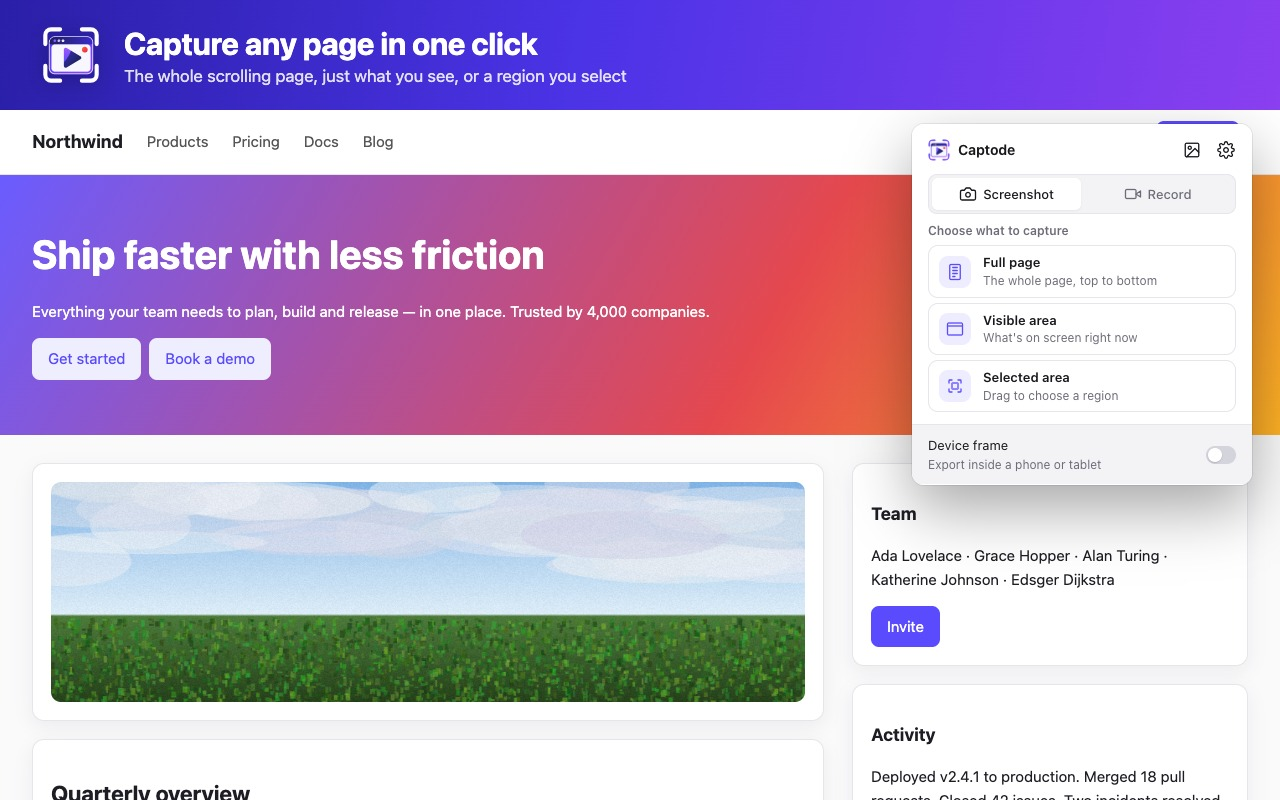
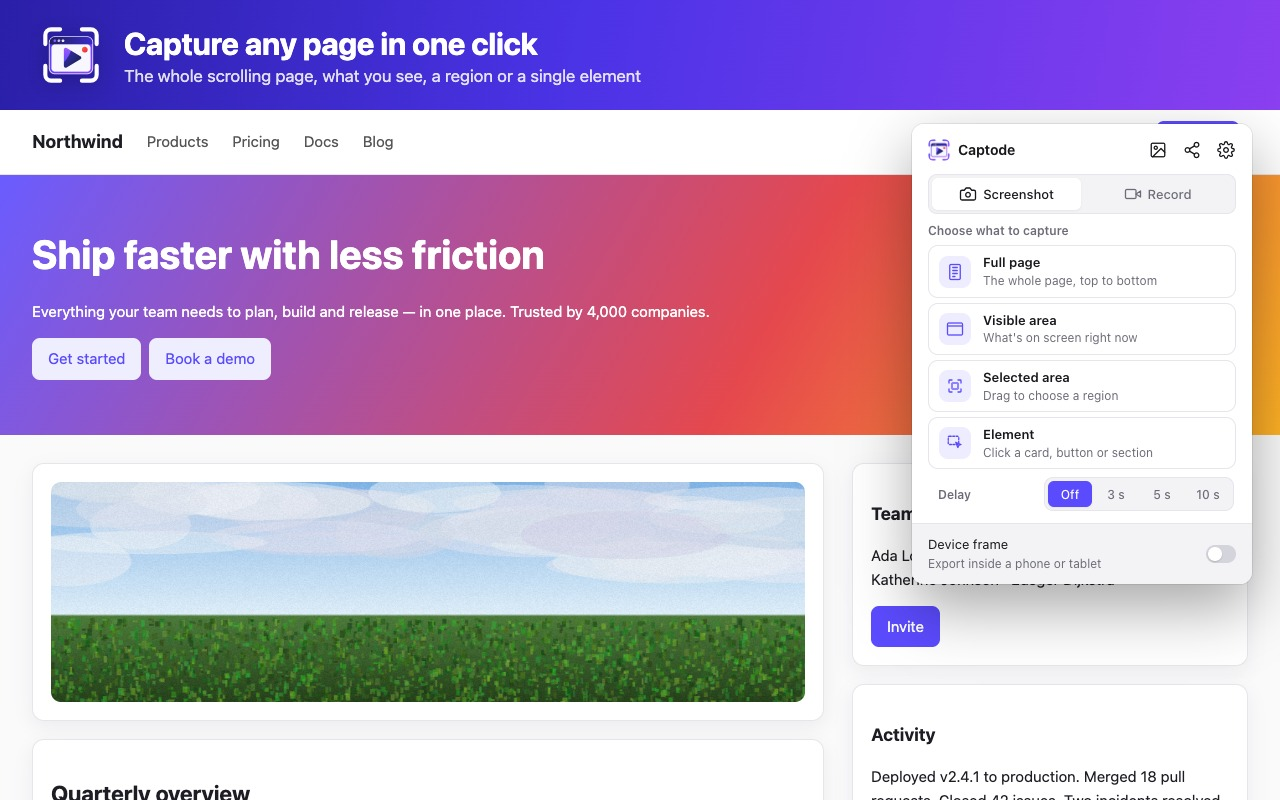
Tests for blurring private details, the camera bubble and microphone, shortcuts and diagnostics; docs, listing and store screenshots for 1.4

Changed region(s): [[0.6875, 0.5312, 1.0, 0.7812], [0.25, 0.0625, 0.5, 0.125], [0.9062, 0.1562, 0.9375, 0.2188]]

diff --git a/test/site/private.html b/test/site/private.html
@@ -1,0 +1,20 @@
+<!doctype html><html><head><meta charset="utf-8"><title>Account</title>
+<style>
+body{margin:0;padding:32px 40px;font:16px/1.6 system-ui,sans-serif;color:#222;background:#fff}
+p{margin:0 0 14px}
+input{font:inherit;padding:6px 8px;width:280px}
+#spacer{height:2200px}
+</style></head><body>
+<h1>Your account</h1>
+<!-- What should be found. -->
+<p>Signed in as <span id="email">jane.doe@example.com</span>.</p>
+<p>Phone: <span id="phone">+1 (415) 555-0134</span></p>
+<p>Card on file: <span id="card">4242 4242 4242 4242</span></p>
+<p><label>Backup email <input id="field" type="email" value="backup@example.org"></label></p>
+<!-- What shouldn't: dates, times, money, years, versions, order and book numbers. -->
+<p id="decoys">Joined 2024-05-12 at 10:30. Balance $1,299.00 (was €12,345.67). Member 2019–2024.
+Version 1.2.3.4. Order #100234, tracking 4242 4242 4242 4241. ISBN 978-3-16-148410-0.
+Released 12/05/2024. Reference 1234567890123.</p>
+<div id="spacer"></div>
+<p>Questions? Write to <span id="low">help@example.net</span>.</p>
+</body></html>

diff --git a/src/content/page.js b/src/content/page.js
@@ -246,8 +246,10 @@ export function findPrivate(region, space) {
   };
 
   const EMAIL = /[A-Za-z0-9._%+-]+@[A-Za-z0-9-]+(?:\.[A-Za-z0-9-]+)*\.[A-Za-z]{2,}/g;
-  const CARD = /(?<![\d.,])\d(?:[ -]?\d){12,18}(?![\d.,])/g;
-  const PHONE = /(?<![\w.,/-])(?:\+\d{1,3}[\s.-]?)?(?:\(\d{1,4}\)[\s.-]?)?\d{2,5}(?:[\s.-]\d{2,5}){1,4}(?![\w.,/-])/g;
+  // Whole numbers only: not the start or end of a longer one ("4242 4242 4242" in a
+  // 16-digit tracking number isn't a phone number).
+  const CARD = /(?<![\d.,]|\d[ -])\d(?:[ -]?\d){12,18}(?![\d.,]|[ -]\d)/g;
+  const PHONE = /(?<![\w.,/-]|\d[\s.-])(?:\+\d{1,3}[\s.-]?)?(?:\(\d{1,4}\)[\s.-]?)?\d{2,5}(?:[\s.-]\d{2,5}){1,4}(?![\w.,/-]|[\s.-]\d)/g;
   const digits = (m) => m.replace(/\D/g, '');
   const luhn = (d) => {
     let sum = 0;

diff --git a/store/listing.md b/store/listing.md
@@ -3,13 +3,14 @@
 Everything to fill in the Chrome Web Store Developer Dashboard, field by field, plus the
 assets to upload. (Microsoft Edge Add-ons asks for the same things; notes at the end.)
 
-Build the package with `npm run package` and upload `dist/captode-1.2.0.zip`.
+Build the package with `npm run package` and upload `dist/captode-<version>.zip`
+(`npm run release` builds it; the GitHub release for the tag has the same file).
 
 ---
 
 ## Package (uploaded zip)
 
-- Manifest V3, version 1.3.0, minimum Chrome 116.
+- Manifest V3, version 1.4.0, minimum Chrome 116.
 - Translated into Spanish, Portuguese (Brazil), French, German, Italian, Japanese, Korean and
   Simplified Chinese. The Web Store shows the extension's name and short description in each of
   these languages from the package; the detailed description below can be added per language
@@ -44,13 +45,16 @@ and saves them to your computer. Everything happens in your browser: no account,
 uploads and no watermark.
 
 Screenshots
-Capture a whole scrolling page in one image, just what's on screen, or an area you drag
-out with a mouse, finger or pen. Long pages are stitched cleanly, with sticky headers
-shown once. Every kind of screenshot is also in the page's right-click menu.
+Capture a whole scrolling page in one image, just what's on screen, an area you drag
+out with a mouse, finger or pen, or a single part of the page you point at. Long pages
+and web apps that scroll inside a panel are stitched cleanly, with sticky headers shown
+once. Wait a few seconds first to catch an open menu, start from the right-click menu,
+or press a keyboard shortcut on any page.
 
 Mark up
 Add arrows, shapes, text, callouts, highlights and numbered steps, spotlight or magnify
-what matters, and blur or black out anything private before you share. Select several
+what matters, and blur or black out anything private before you share. When a screenshot
+shows email addresses or phone or card numbers, Captode offers to blur them in one click. Select several
 things to align, arrange or copy them, and pick up where you left off: your edits are
 kept with each capture. Crop, resize, or add padding, a background and a shadow. Every tool has a
 keyboard shortcut, and changes can be undone.
@@ -63,7 +67,8 @@ quality that fits.
 Record
 Record the current tab, an area of it, or your whole screen or a window, with sound if
 you like. Only the page is kept, even when DevTools shows it at a phone's size, and you can
-record it as shown, scaled up or down, or at a standard resolution. A countdown of up to 30
+record it as shown, scaled up or down, or at a standard resolution. Talk over it with your
+microphone, add yourself in a round camera bubble, and show your clicks. A countdown of up to 30
 seconds gives you time to get ready, and one click on the toolbar button stops the recording.
 
 Review designs
@@ -128,8 +133,8 @@ lets the user annotate, review, compare, trim and export them as image, PDF or v
 
 | Permission | Justification to paste |
 | --- | --- |
-| activeTab | Captures the tab the user is on, only after they click the Captode toolbar button, press its keyboard shortcut or choose a Captode item in the page's right-click menu. Captode has no host permissions and does nothing on pages until the user invokes it. |
-| contextMenus | Adds Captode's screenshot modes (full page, visible area, selected area, element) to the page's right-click menu, so a screenshot can be started without opening the toolbar popup. |
+| activeTab | Captures the tab the user is on, only after they click the Captode toolbar button, press one of its keyboard shortcuts or choose a Captode item in the page's or the toolbar icon's right-click menu. Captode has no host permissions and does nothing on pages until the user invokes it. |
+| contextMenus | Adds Captode's screenshot modes (full page, visible area, selected area, element) to the page's right-click menu and the toolbar icon's menu, so a screenshot can be started without opening the toolbar popup. |
 | scripting | After the user starts a capture, injects a temporary overlay for selecting an area and a recording countdown into the active tab, and scrolls the page to stitch full-page screenshots. Nothing stays injected afterwards. |
 | tabCapture | Records the current tab (or a selected area of it) when the user starts a tab recording from the popup. |
 | offscreen | Hosts the MediaRecorder for tab recordings in an offscreen document, because a service worker cannot hold a media stream. The recording keeps running after the popup closes. |
@@ -149,7 +154,10 @@ personal communications, location, web history, user activity, website content.
 
 Captures of website content are made at the user's request and never leave the device,
 so they are not "collected" in the Chrome Web Store's sense (data transmitted off the
-user's device).
+user's device). The same goes for the camera and microphone, which the user turns on for a
+recording (the browser asks them first) and which only go into that recording on their
+device, and for the email addresses and numbers Captode looks for on a captured page to
+offer to blur them: only their positions are kept, with the capture, on the device.
 
 Tick all three certifications:
 - I do not sell or transfer user data to third parties, outside of the approved use cases
@@ -179,6 +187,8 @@ No account or setup is needed.
    toolbar button to stop. The recording opens; choose GIF and click Export.
 4. Record > Full screen shows Chrome's own screen picker and records the chosen screen
    or window.
+5. Right-click any page and choose Captode > Screenshot the visible area, or press
+   Alt+Shift+V. On a page showing an email address, the editor offers to blur it.
 Captode cannot capture chrome:// pages or the Chrome Web Store (Chrome blocks this for all
 extensions); the popup says so on those pages.
 ```

diff --git a/README.md b/README.md
@@ -20,7 +20,11 @@ export to the format you need. Captode runs entirely in your browser. Nothing is
   an element, after choosing it). Esc cancels; if another tab is showing when the time is
   up, nothing is captured.
 - **Right-click menu:** every kind of screenshot can also be started from the page's
-  right-click menu, under Captode.
+  right-click menu, under Captode, or from the menu of Captode's toolbar icon.
+- **Keyboard shortcuts** that work on any page: **Alt+Shift+F** full page, **Alt+Shift+V**
+  visible area, **Alt+Shift+S** selected area. Element has none by default (Chrome allows
+  an extension four suggested shortcuts); set or change any of them at
+  `chrome://extensions/shortcuts`.
 
 The capture opens in the editor, where you can:
 
@@ -35,7 +39,11 @@ The capture opens in the editor, where you can:
   bold, italic, text colour and background colour.
 - **Number the steps:** each click adds a numbered marker (1, 2, 3…) in the colour and
   size you choose; start from any number, or renumber one.
-- **Blur, pixelate or black out** sensitive details.
+- **Blur, pixelate or black out** sensitive details. When a screenshot shows email
+  addresses, phone numbers or card numbers (in text or form fields), the editor offers to
+  blur them all in one click; each blur can then be moved or removed, and Undo takes them
+  all back. Dates, times, prices, years and order numbers are left alone. They are found on
+  the page as it is captured; nothing is sent anywhere.
 - Select, move, resize (handles on every annotation), restyle and delete anything you
   added. **Select several** with Shift-click or by dragging a box, then move, restyle,
   duplicate, copy and paste (between editor tabs too), bring to front or send to back,
@@ -103,6 +111,12 @@ the black space around it is left out. **Video size** records the page as shown 
 default), scaled (50%, 75%, 150% or 200%), or at a standard resolution (480p to 4K,
 measured on the shorter side so phone-shaped pages stay portrait).
 
+**Microphone** adds your voice, mixed with the tab's or screen's sound if that is
+recorded too. **Camera bubble** puts you in a round, mirrored picture in the bottom left
+corner of the video; it keeps moving even while the page stands still. The first time you
+turn either on, a Captode page asks Chrome for access once and shows a preview; both are
+used only while recording.
+
 You can pick the frame rate (15, 24, 30 or 60 fps), include audio, show clicks and keyboard
 shortcuts in tab recordings (never ordinary typing, and nothing in password fields), and set a
 countdown of up to 30 seconds (or none) to get ready; press Esc, or Cancel for full-screen recordings, to
@@ -165,8 +179,12 @@ Open **Settings** from the gear in the popup (or right-click the icon → Option
 - **Default formats** for screenshots and recordings (or the last one used), and whether
   device frames are on.
 
-Settings also has links to help, problem reports and the privacy policy, and a button that
-resets everything to the defaults.
+Settings also lists every keyboard shortcut (with a button to change them), has links to
+help, problem reports and the privacy policy, a **Share Captode** button (the system's
+share sheet, or the store link copied), **Copy diagnostics** (versions, operating system,
+shortcuts, settings and the last error, without page addresses, to paste into a problem
+report; nothing is sent), and a button that resets everything to the defaults. The popup's
+share icon copies the store link.
 
 On browser pages that Chrome protects (such as `chrome://` pages and the Web Store), the
 popup explains that the page can't be captured and leaves full-screen recording available.
@@ -341,8 +359,10 @@ than text, ever shows.
    uncommitted changes; then it sets the version in the manifest, `package.json` and
    `package-lock.json`, checks the translations, runs the tests, builds the zip, commits
    and tags `v<version>`. Add `--push` to push the commit and tag, or `--dry-run` to see
-   what it would do.
-3. Upload `dist/captode-<version>.zip` to the
+   what it would do. A pushed tag also starts the Release workflow on GitHub, which checks
+   that the tag matches the manifest, runs the tests, and attaches the zip (with its
+   SHA-256) to a GitHub release.
+3. Upload `dist/captode-<version>.zip` (or the one on the GitHub release) to the
    [Chrome Web Store developer dashboard](https://chrome.google.com/webstore/devconsole) and to
    [Microsoft Edge Add-ons](https://partner.microsoft.com/dashboard/microsoftedge/).
    [`store/listing.md`](store/listing.md) has every dashboard field ready to paste

diff --git a/PRIVACY.md b/PRIVACY.md
@@ -1,6 +1,6 @@
 # Captode privacy policy
 
-_Last updated: 15 October 2026_
+_Last updated: 18 October 2026_
 
 Captode is a browser extension for taking screenshots and screen recordings and editing
 them. It does not collect, transmit, sell or share any personal or sensitive data.
@@ -19,6 +19,16 @@ them. It does not collect, transmit, sell or share any personal or sensitive dat
 - **Review pages** made with Share for review, and zips of several devices, are files you
   download: Captode doesn't upload or host them. A review page contains the image and the
   notes you wrote, and the address of the page you captured.
+- **Camera and microphone** are used only if you turn on Camera bubble or Microphone in
+  the recording options, and only while a recording is running. What they capture goes
+  into that recording on your device and nowhere else. Your browser asks you before
+  Captode can use them, and you can withdraw that at any time in the browser's site
+  settings.
+- **Private details** (email addresses, phone and card numbers) are looked for on the page
+  you capture, at the moment you capture it, only to offer to blur them. Their positions
+  are kept with the capture; the text itself isn't kept or sent.
+- **Copy diagnostics** in Settings puts versions, settings and the last error on your
+  clipboard for you to paste into a report yourself. Captode doesn't send it.
 - **Compression** (including the oxipng and MozJPEG encoders bundled with the extension)
   runs locally. No code is downloaded at run time.
 
@@ -26,7 +36,8 @@ them. It does not collect, transmit, sell or share any personal or sensitive dat
 
 - It makes no network requests of its own. The only links to the internet are the Help,
   Report a problem and Privacy policy buttons in Settings, which open a web page when you
-  click them.
+  click them, and Share Captode, which hands the store's address to your system's share
+  sheet or clipboard.
 - It has no accounts, analytics, advertising, telemetry or tracking.
 - It doesn't read pages in the background. It only acts on the tab you're on, when you
   start a capture or recording yourself.
@@ -35,7 +46,8 @@ them. It does not collect, transmit, sell or share any personal or sensitive dat
 
 | Permission | Why Captode needs it |
 | --- | --- |
-| `activeTab` | Capture the tab you're on, only after you click Captode or press its shortcut. |
+| `activeTab` | Capture the tab you're on, only after you click Captode, press one of its shortcuts or choose it in the right-click menu. |
+| `contextMenus` | Offer the screenshot modes in the page's right-click menu and the toolbar icon's menu. |
 | `scripting` | Show the area picker and countdown on that tab, and scroll it for a full-page screenshot. |
 | `tabCapture` | Record the current tab when you start a tab or selected-area recording. |
 | `offscreen` | Keep a tab recording running after the popup closes. |
@@ -43,7 +55,8 @@ them. It does not collect, transmit, sell or share any personal or sensitive dat
 | `unlimitedStorage` | Keep large recordings safe on your device until you export them, so the browser doesn't clear them under storage pressure. |
 
 Recording your whole screen or a window uses your browser's own screen-sharing picker,
-which needs no extra permission and always asks you first.
+which needs no extra permission and always asks you first. The camera and microphone
+likewise need no extension permission: the browser asks you itself.
 
 ## Contact
 

diff --git a/docs/TESTING.md b/docs/TESTING.md
@@ -16,8 +16,15 @@ the extension into Chrome for Testing and checks:
 - video export to MP4, WebM, GIF and WebP: speed, trims, audio length, device frames,
   and MP4 with Opus audio for systems without an AAC encoder (Chrome on Linux, and
   Windows without Media Foundation)
-- the popup, editor and settings, including the keyboard shortcut Chrome reports and
+- the popup, editor and settings, including every keyboard shortcut Chrome reports and
   Windows high-contrast mode
+- element and delayed screenshots, full pages of apps that scroll a panel, and the
+  right-click menu's items
+- the offer to blur email addresses and phone and card numbers (and not dates, sums or
+  order numbers), in visible and full-page screenshots
+- recordings with a camera bubble and microphone, with Chrome's stand-in camera: the
+  bubble is drawn, keeps moving on a still page, and both are let go afterwards
+- Share Captode and Copy diagnostics (no page addresses)
 
 ## What needs a person
 
@@ -73,6 +80,16 @@ or install the zip from `npm run package`.
    and the arrows, and delete it. Each step is announced.
 16. Remove a capture from Recent captures, delete an annotation and reset Settings: each
    toast offers Undo, which brings it back.
+17. **Camera and microphone:** in the popup's recording options turn on **Camera bubble**
+   and **Microphone**. Captode's page asks Chrome for them and shows a preview; allow, and
+   it closes. Then **Record → This tab** while talking: the video has you in the bottom
+   left corner, and your voice. (Tab recordings run in a hidden page that can't ask by
+   itself, so this checks that the permission given carries over.) Repeat with
+   **Record → Full screen**. Block the camera for Captode in Chrome's site settings and
+   record again: the popup reports that the camera can't be used.
+18. **Shortcuts and menus:** press Alt+Shift+F, Alt+Shift+V and Alt+Shift+S on a web page;
+   right-click the page and the toolbar icon and try each Captode item. On a page showing
+   an email address, **Blur** in the editor covers it.
 
 ### Windows
 
